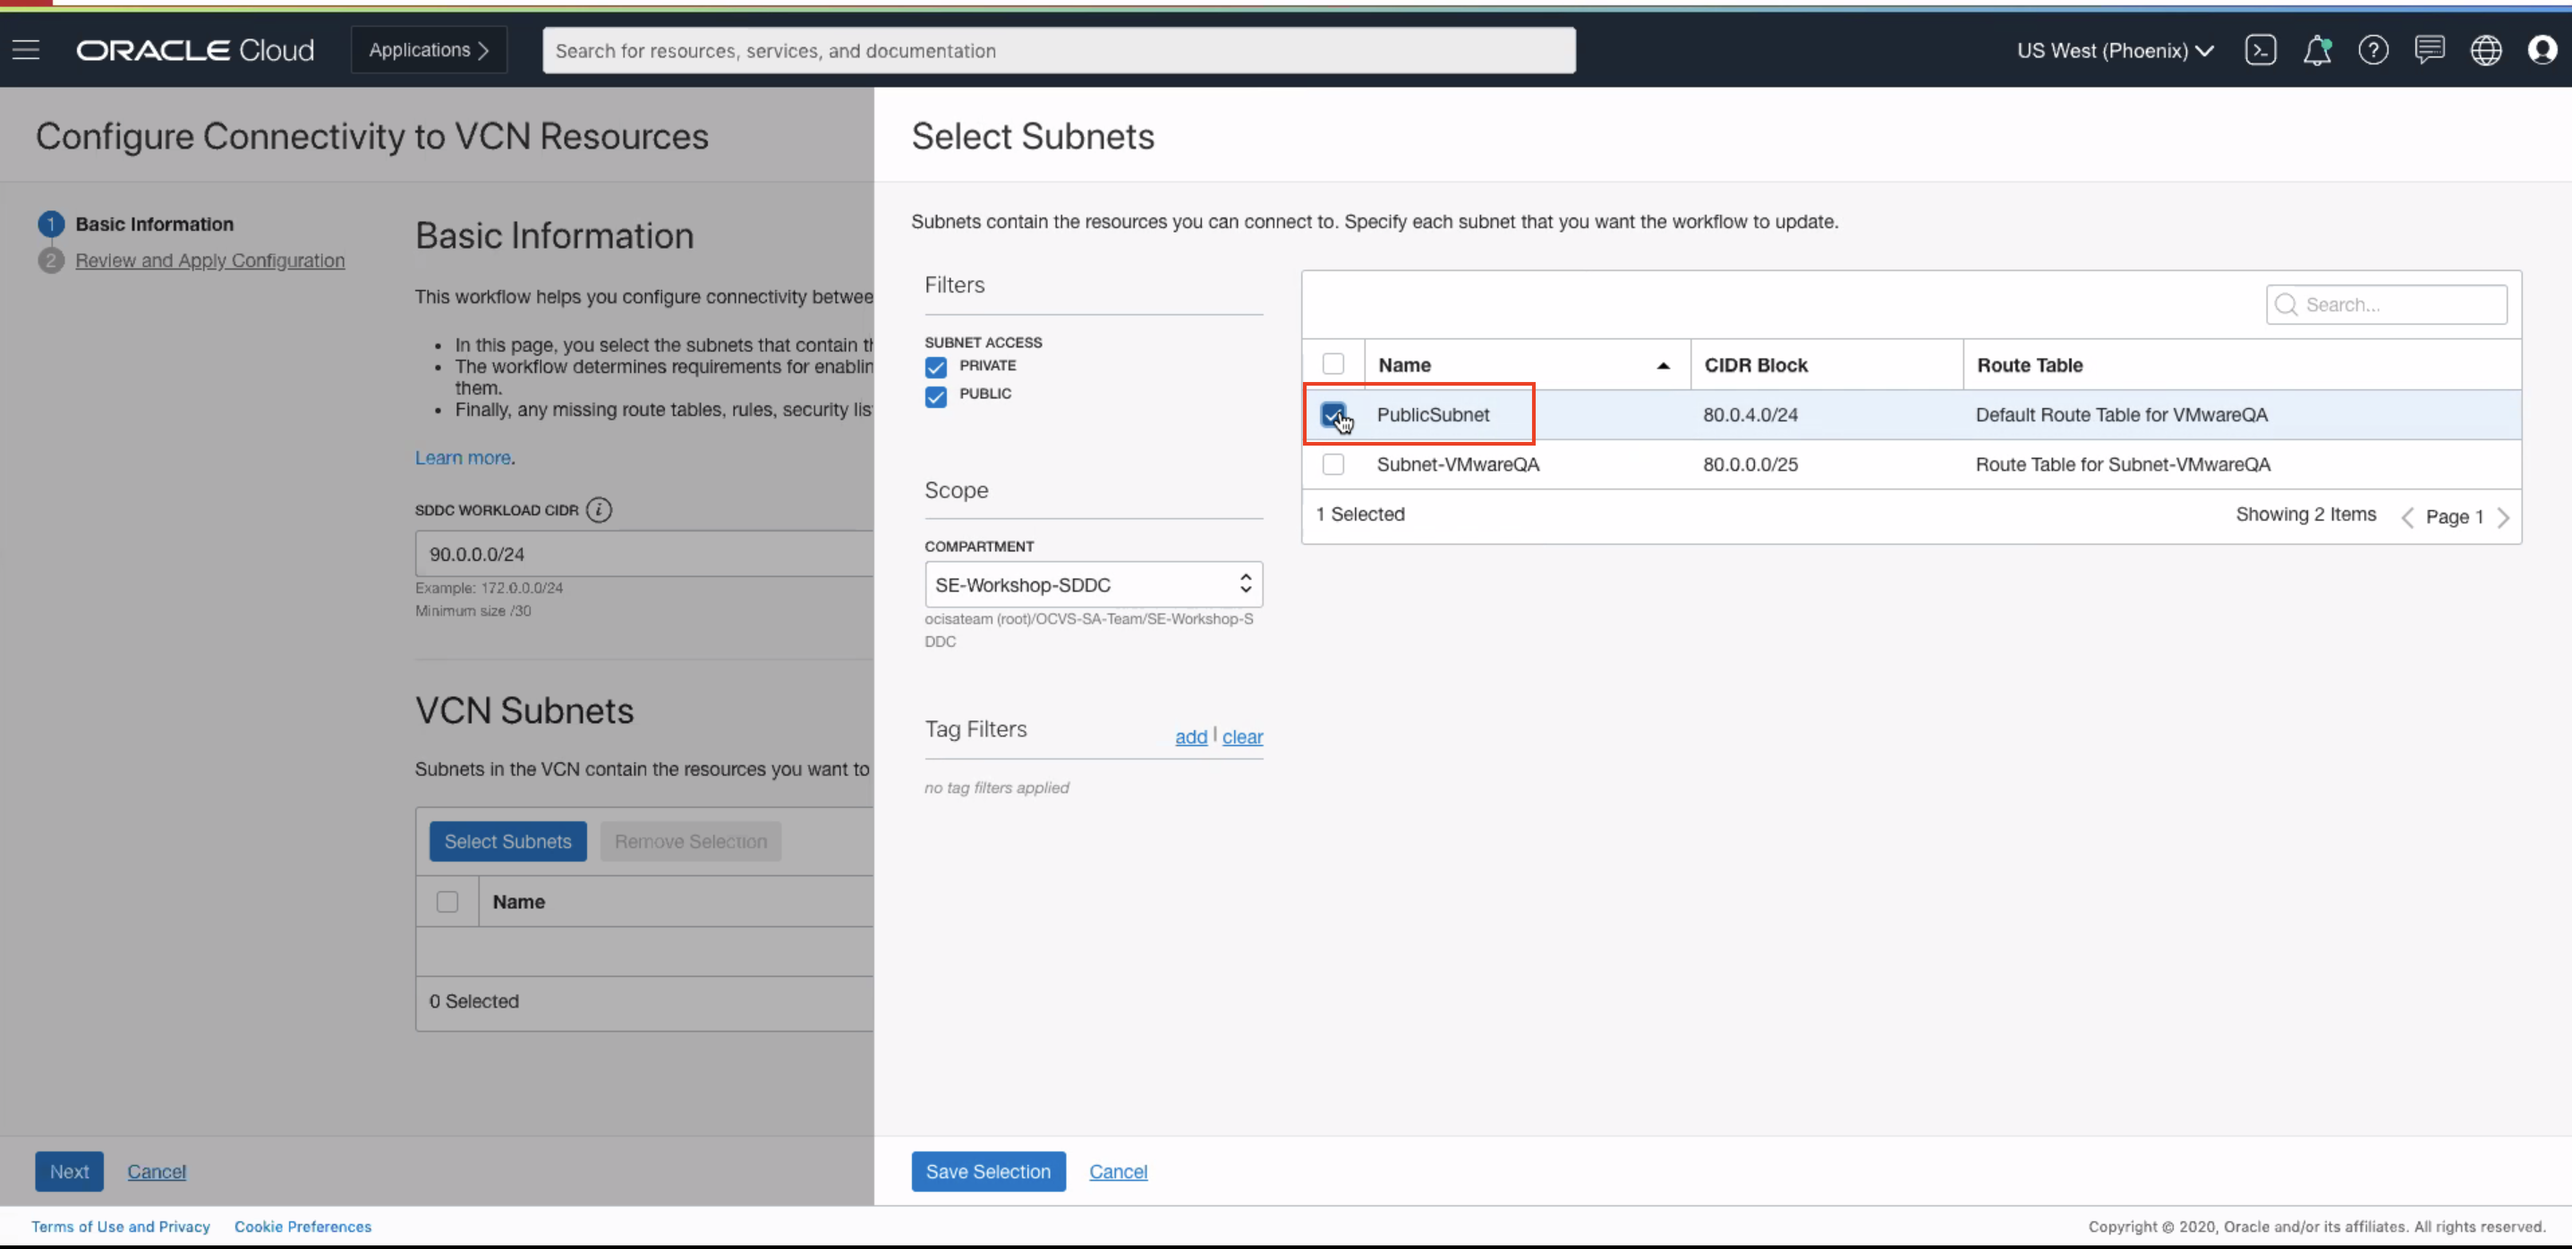
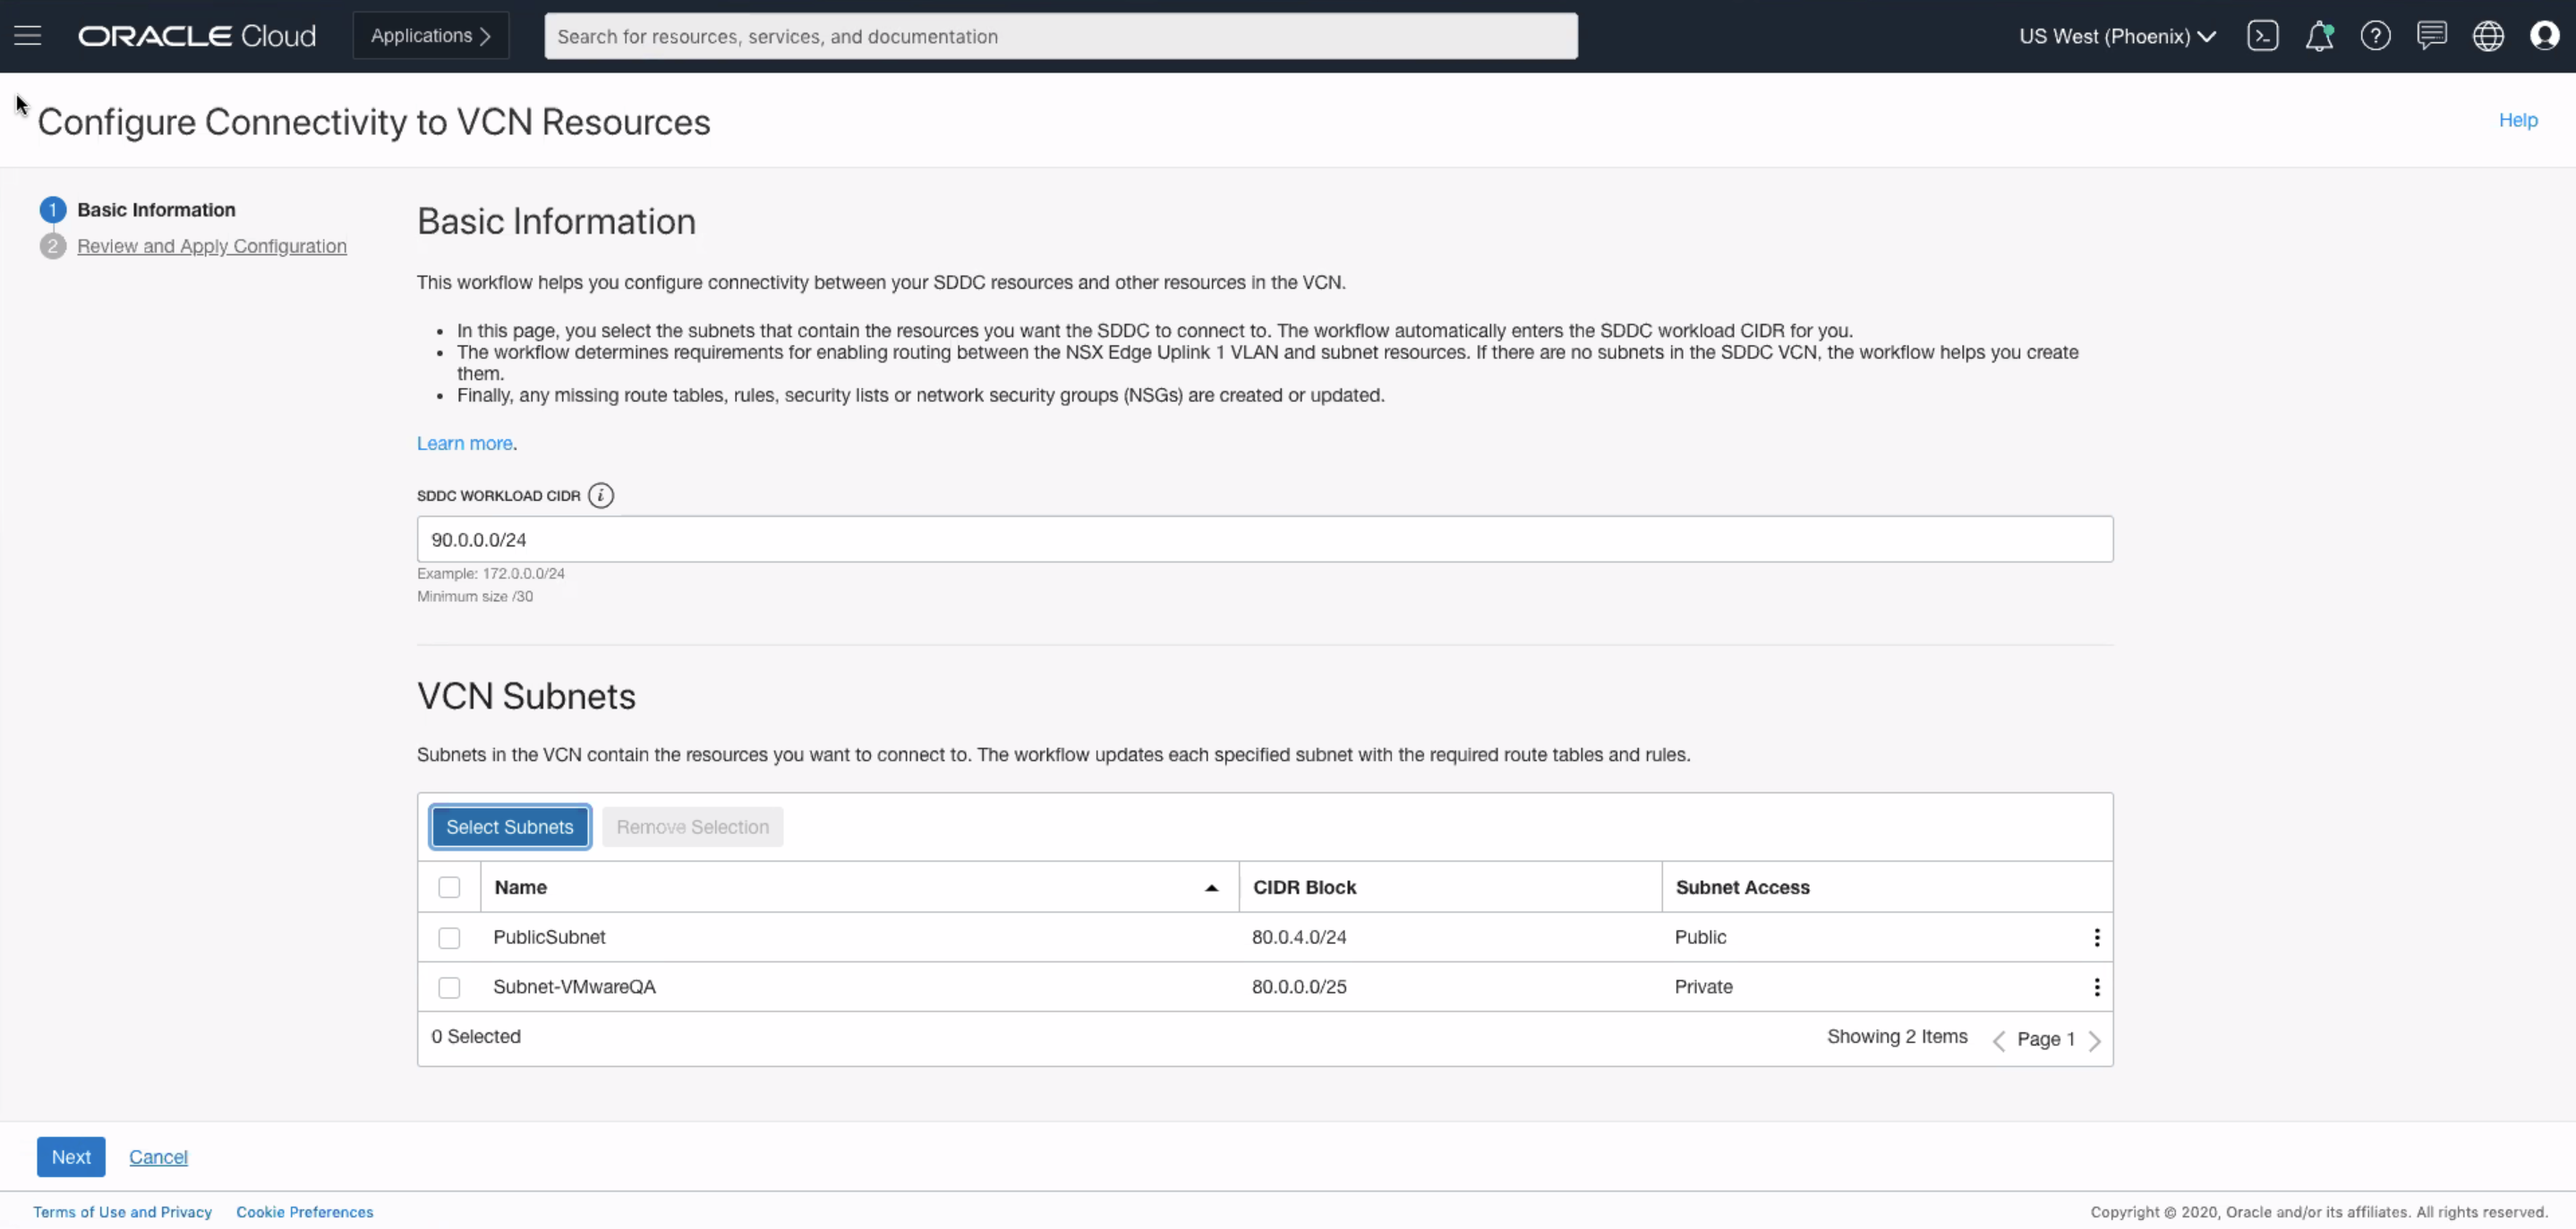
Changes to Lab 100 and 300

diff --git a/OCVS/ProvisionOCVS.md b/OCVS/ProvisionOCVS.md
@@ -267,7 +267,7 @@ The Bastion host is now ready to accept remote desktop connections.
 
 - Select the SDDC you provisioned
 
-- On your SDDC page click the box that reads **Configure connectivity to VCN resources** 
+- On your SDDC page click the box that reads **Configure connectivity to VCN resources**
 
     ![](./images/Lab100/100_40_2.png " ")
 
@@ -275,7 +275,7 @@ The Bastion host is now ready to accept remote desktop connections.
 
     ![](./images/Lab100/100_40_3.png " ")
 
-- Select the public subnet you created in the previous step.
+- Select the private SDDC subnet and the public subnet you created in the previous step.
 
     ![](./images/Lab100/100_40_4.png " ")
 
@@ -296,7 +296,7 @@ The Bastion host is now ready to accept remote desktop connections.
     ![](./images/Lab100/100_40_9.png " ")
 
 
-### Step 10: Access the SDDC using the Bastion 
+### Step 10: Access the SDDC using the Bastion
 
 - Under **Core Infrastructure**, click on **Compute** and then on **Instances**.
 
@@ -306,7 +306,7 @@ The Bastion host is now ready to accept remote desktop connections.
 
     ![](./images/Lab100/100_19.png " ")
 
-- Copy the Public IP address, username and one-time password from the console of the VM. you will need them to establish remote desktop connectivity to the machine. 
+- Copy the Public IP address, username and one-time password from the console of the VM. you will need them to establish remote desktop connectivity to the machine.
 
     ![](./images/Lab100/100_20.png " ")
 

diff --git a/OCVS/MigratingOnPremtoOCI.md b/OCVS/MigratingOnPremtoOCI.md
@@ -66,5 +66,20 @@ In this lab, we will import the on-premises VMWare environment that we had expor
 
      ![](./images/Lab300/300_13.png " ")
 
- 
+### STEP 2: Enable Internet on the VM
 
+- The VM does not have DNS settings. To add the DNS server click the network icon on the right top corner and click **Edit Connections**
+
+    ![](./images/Lab300/300_21.png " ")
+
+- Open the **Wired Connections 1** and goto **IPv4 Settings**. Enter the google DNS server **8.8.8.8** in the **Additional DNS Servers** field and click **Save**
+
+    ![](./images/Lab300/300_22.png " ")
+
+- Click the networking Icon again and disable network by toggling the **Enable Networking** settings.
+
+    ![](./images/Lab300/300_23.png " ")
+
+- Enable the network by toggling the same button  **Enable Networking** again.
+
+- Visit some website on the browser and the confirm that you have internet access.
